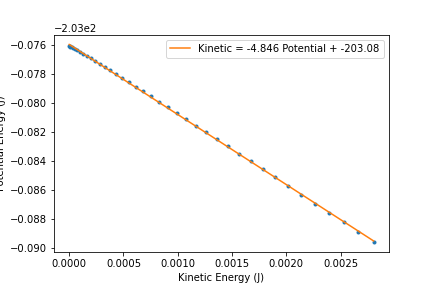
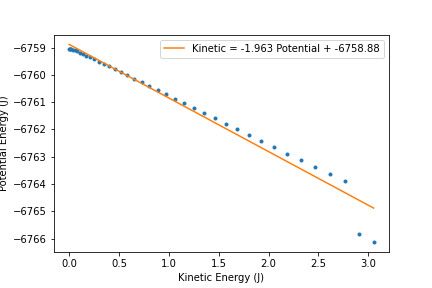
add more stuff

diff --git a/PlotUvsV.py b/PlotUvsV.py
@@ -19,6 +19,7 @@ import numpy as np
 import InitializePoints
 import PoissonEquation
 import IntegrationMethods
+from scipy.interpolate import RegularGridInterpolator
 
 
 # Parameters
@@ -27,8 +28,8 @@ a = .2
 ba = 1
 ca = 1
 N = 32**3
-dt = 0.0001
-T = 40
+dt = 0.00001
+T = 10000
 
 center = [0,0,0]
 grid_size = 32
@@ -62,11 +63,16 @@ def xnext(x, v, phi, dt=dt):
 
     return x_new, v_new, phi
 
-def U(particles, phi, spacing = 1/32):
-    indices = ((particles + 0.5) / spacing).astype(int)
-    U = 0
-    U += np.linalg.norm(phi[indices])
-    return -U
+def U(particles, phi, grid_spacing=1/32, grid_origin=-0.5):
+    # Create coordinates for the grid
+    grid_points = np.linspace(grid_origin, grid_origin + grid_spacing * phi.shape[0], phi.shape[0])
+    interp_func = RegularGridInterpolator((grid_points, grid_points, grid_points), phi, bounds_error=False, fill_value=0)
+    
+    # Interpolate phi at particle positions
+    potential_values = interp_func(particles)
+    
+    # Sum potential energy contributions
+    return np.sum(potential_values)
 
 def K(velocities):
     return np.sum(velocities**2)/2
@@ -85,17 +91,20 @@ for i in range (T):
 plt.plot(Karr, Uarr,".")
 a, b = np.polyfit(Karr, Uarr, 1)
 
-plt.plot(Karr, a*Karr + b, label =f"Kinetic = {a.round(3)} Potential + {b.round(2)}" )
+plt.plot(Karr, a*Karr + b, label =f"Potential = {a.round(3)} Kinetic + {b.round(2)}" )
 plt.xlabel("Kinetic Energy (J)")
 plt.ylabel("Potential Energy (J)")
 plt.legend()
-plt.savefig("GenericUvsV1.png")
+plt.savefig("GenericUvsV.png")
 plt.show()
 
 # CODE TO TEST CONSERVATION OF ENERGY
 arr = Uarr+Karr
 tarr = np.arange(0,T*dt,dt)
-plt.plot(tarr,arr)
+plt.plot(tarr,arr, ".", label = "total energy")
+#plt.plot(tarr, Karr, ".", label = "kinetic energy")
 plt.xlabel("time")
 plt.ylabel("total energy")
+plt.legend()
 plt.show()
+print(dt)

diff --git a/IntegrationMethods.py b/IntegrationMethods.py
@@ -69,6 +69,45 @@ def NetAngularMomentum(particles):
     
     return velocities / magnitudes
 
+def MassWithinRadius(densityField,r, tol = 1e-6):
+    grid_size = 32
+    center = [0,0,0]
+
+    x = np.linspace(-0.5, 0.5, grid_size, endpoint=True) + center[0]
+    y = np.linspace(-0.5, 0.5, grid_size, endpoint=True) + center[1]
+    z = np.linspace(-0.5, 0.5, grid_size, endpoint=True) + center[2]
+    
+    # Generate grid coordinates
+    X, Y, Z = np.meshgrid(x, y, z, indexing="ij")
+
+    # Calculate squared distance from the center
+    distance_sq = X**2 + Y**2 + Z**2
+
+    # Identify cells within the specified radius
+    within_radius = (distance_sq <= r**2 + tol)
+
+    # Calculate total mass (density * volume) for cells within the radius
+    total_mass = np.sum(densityField[within_radius])
+
+    return total_mass
+
+def NoEvolution(particles):
+    densityField, _,_,_ = InitializePoints.CreateDensityField([0,0,0], particles , grid_size = 32)
+    
+    distance = np.linalg.norm(particles, axis=1, keepdims=True)
+    refVec = np.array([0,0,1])
+    refVec2 = np.array([1,0,0])
+    velocities = np.empty_like(particles)
+    
+    for i in range (np.shape(particles)[0]):
+        ptcl = particles[i]
+        vhat = np.cross(ptcl, refVec)/distance[0]
+        if np.allclose(vhat, np.array([0, 0, 0])): vhat = np.cross(ptcl, refVec2)
+        velocities[i] = MassWithinRadius(densityField,distance[i]) / distance[i] * vhat
+    
+    return velocities
+    
+    
     
     
     
